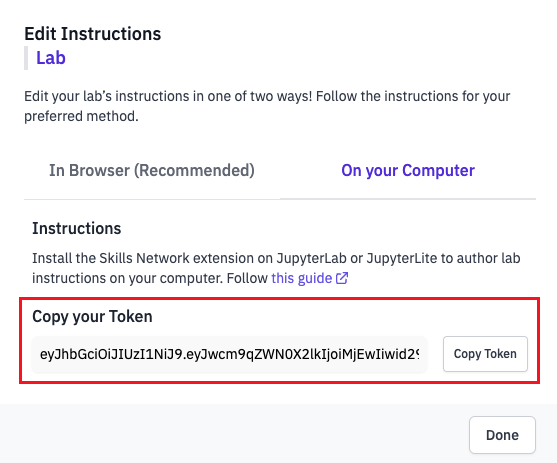
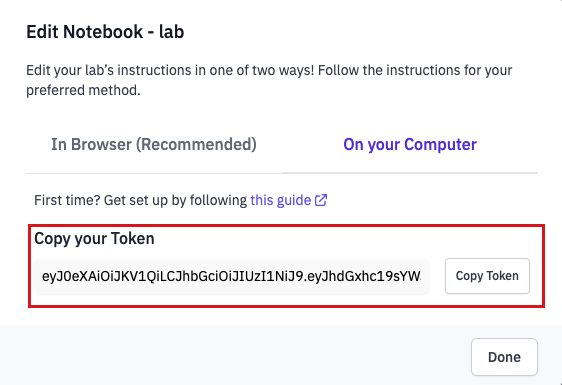
add instructions for local/computer authoring

diff --git a/docs/labs/edit-jupyterlab-instructions-computer.md b/docs/labs/edit-jupyterlab-instructions-computer.md
@@ -4,13 +4,16 @@ sidebar_position: 6
 
 # Edit JupyterLite/Lab Instructions - Computer
 
-## 1. Install author-ide-extension
-To install the extension, execute on your terminal:
+## Prerequisites
+To edit lab instructions on your computer, you must have Jupyterlab or Jupyterlite installed.
 
-```pip install author-ide-extension```
+## 1. Install author-ide-extension
+On the Extension Marketplace of Jupyterlab or Jupyterlite, search and install ```skillsnetwork-authoring-extension```.
+
+Or, execute on your terminal: ```pip install skillsnetwork-authoring-extension```
 
 ## 2. Copy your Lab Token
-On Author Workbench, copy the lab token located on the ```Edit Instructions``` window of your lab.
+On Author Workbench, copy the lab token located on the ```Edit Notebook``` window of your lab.
 
 ![Copy Lab Token Screenshot](/img/labs/edit-lab-instructions/copy-token-screenshot.png)
 
